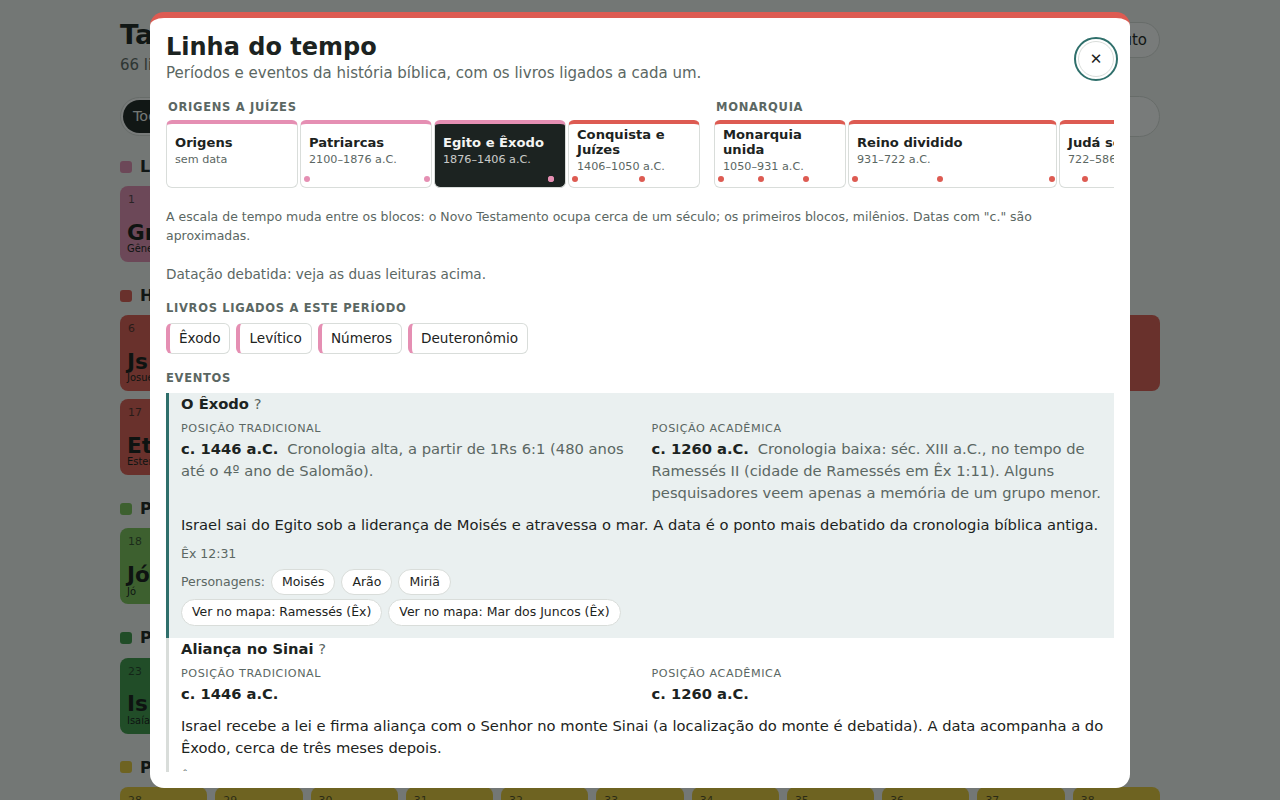
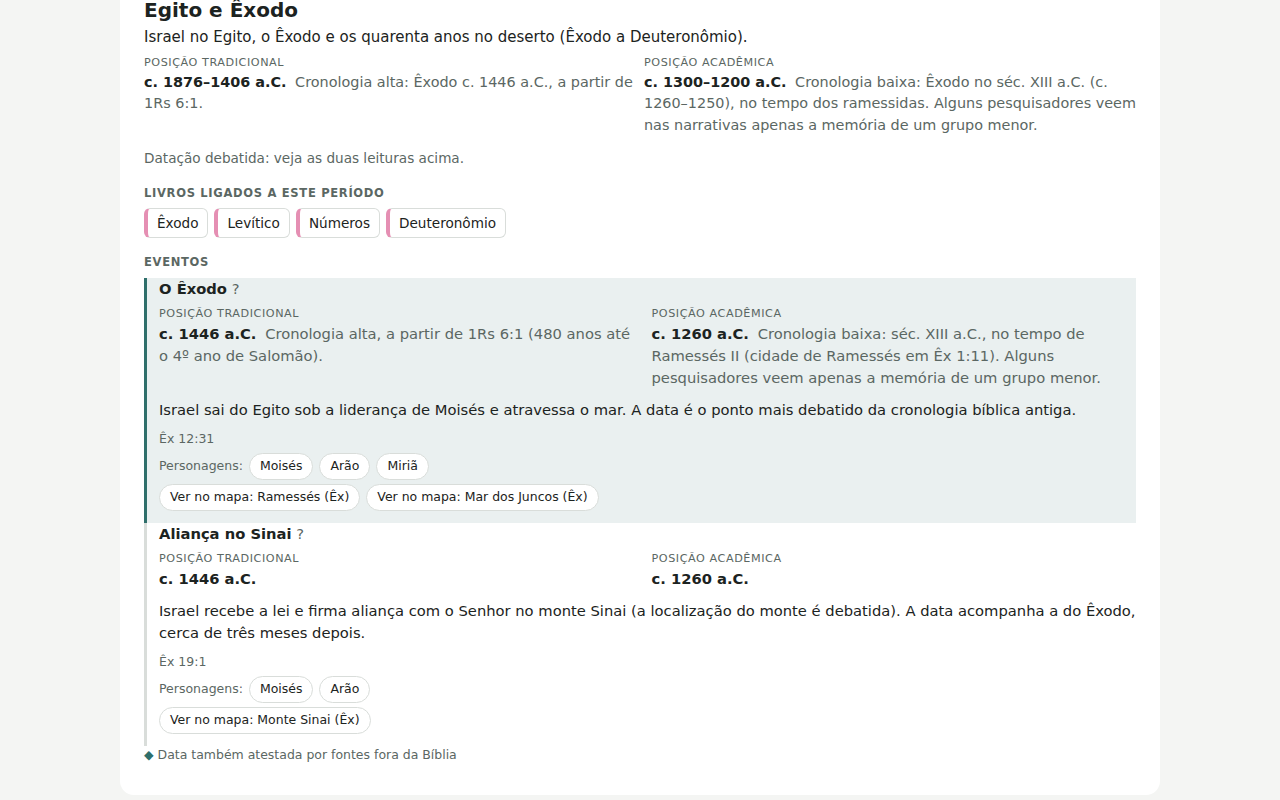
Docs e capturas para as páginas completas; documenta as rotas
Claude-Session: https://claude.ai/code/session_0164XaicYoLjxwADqucEnrbc

diff --git a/docs/formatos-de-dados.md b/docs/formatos-de-dados.md
@@ -28,7 +28,7 @@ Para adicionar uma versão: incluir o formato da fonte em `scripts/build-bible-d
 
 ## Mapa
 
-A aba **Mapa** do modal aparece nos livros cuja ficha (`src/data/info/<slug>.json`) tem a chave `map`. O desenho usa `d3-geo` sobre a costa em `src/data/land.json`, sem tiles externos. O visual segue a demo aprovada em `docs/map-demo/`.
+A aba **Mapa** da página do livro aparece nos livros cuja ficha (`src/data/info/<slug>.json`) tem a chave `map`. O desenho usa `d3-geo` sobre a costa em `src/data/land.json`, sem tiles externos. O visual segue a demo aprovada em `docs/map-demo/`.
 
 ```json
 "map": {
@@ -50,7 +50,7 @@ A aba **Mapa** do modal aparece nos livros cuja ficha (`src/data/info/<slug>.jso
 
 ## Linha do tempo
 
-O botão **Linha do tempo** abre um modal com duas camadas: (1) períodos e eventos da história bíblica e (2) os livros ligados a cada período. Dados em `src/data/timeline.json`; componente em `src/Timeline.jsx`.
+O botão **Linha do tempo** abre uma página com duas camadas: (1) períodos e eventos da história bíblica e (2) os livros ligados a cada período. Dados em `src/data/timeline.json`; componente em `src/Timeline.jsx`.
 
 - Anos são inteiros: negativo = a.C., positivo = d.C. (não existe o ano 0). `approx: true` mostra "c.".
 - `dates` é `{start, end?, approx?, note?}` ou, quando a datação é debatida, `{traditional: {...}, scholarly: {...}}` (as duas leituras aparecem lado a lado, como nas fichas).
@@ -61,7 +61,7 @@ O botão **Linha do tempo** abre um modal com duas camadas: (1) períodos e even
 
 ## Personagens
 
-O botão **Personagens** abre um modal com a lista (busca e filtro por livro) e, para cada pessoa, o resumo, os livros onde aparece (com o papel em cada um), os eventos da linha do tempo e os lugares do mapa. Dados em `src/data/people.json`; componente em `src/People.jsx`. Links diretos: `#person` e `#person/<id>`.
+O botão **Personagens** abre uma página com a lista (busca e filtro por livro) e, para cada pessoa, o resumo, os livros onde aparece (com o papel em cada um), os eventos da linha do tempo e os lugares do mapa. Dados em `src/data/people.json`; componente em `src/People.jsx`. Links diretos: `#person` e `#person/<id>`.
 
 ```json
 { "id": "davi", "name": { "pt": "Davi", "en": "David" }, "summary": { "pt": "...", "en": "..." },
@@ -82,3 +82,17 @@ O botão ⚙ abre as preferências de estudo, guardadas no navegador (`localStor
 ## Publicar no GitHub Pages
 
 Settings → Pages → Source: *GitHub Actions*. O workflow em `.github/workflows/deploy.yml` faz o build a cada push na `main`.
+
+## Links e navegação
+
+A navegação usa o hash da URL, sem biblioteca de rotas; o botão voltar do navegador funciona e todo endereço é compartilhável. Livros, linha do tempo e personagens são páginas inteiras (só as Configurações são um popup).
+
+| Endereço | Mostra |
+|---|---|
+| `#` | grade dos 66 livros |
+| `#joh`, `#joh/sheet`, `#joh/read` | livro e aba (`summary`, `sheet`, `map`, `read`) |
+| `#2ki/map/Laquis` | aba Mapa com o lugar selecionado (nome em PT) |
+| `#timeline`, `#timeline/exodo` | linha do tempo, com o evento em foco |
+| `#person`, `#person/davi` | lista de personagens ou a página de uma pessoa |
+
+Trocar de aba ou de lugar atualiza o endereço sem criar entrada no histórico; ir para outra página cria. Ao voltar para a grade, a rolagem é restaurada. O código está em `src/route.js`.

diff --git a/CLAUDE.md b/CLAUDE.md
@@ -21,10 +21,11 @@ Tabela interativa dos 66 livros da Bíblia (inspirada no "TaBíblia Periódica")
 - `src/data/info/<slug>.json`: ficha de cada livro (PT/EN), com a chave opcional `map` (lugares do mapa; formato no README).
 - `src/data/land.json`: costa em vetor (Natural Earth 50m, recortada). Não editar à mão.
 - `src/MapView.jsx`: aba Mapa (d3-geo, SVG em pixels reais, rótulos sem colisão, botão "Ampliar região"). Carregada sob demanda.
-- `src/Timeline.jsx`: modal da linha do tempo (períodos, eventos, livros por período; escala por bloco). Carregada sob demanda; link `#timeline`.
-- `src/People.jsx`: modal de personagens (lista com busca e filtro por livro; detalhe com livros, eventos e lugares). Carregada sob demanda; links `#person` e `#person/<id>`.
+- `src/route.js`: rotas por hash (`#joh/map/Laquis`, `#timeline/<evento>`, `#person/<id>`); `go` navega com histórico, `sync` só atualiza o endereço. Livro, linha do tempo e personagens são **páginas**, não popups.
+- `src/Timeline.jsx`: página da linha do tempo (períodos, eventos, livros por período; escala por bloco). Carregada sob demanda; link `#timeline`.
+- `src/People.jsx`: página de personagens (lista com busca e filtro por livro; detalhe com livros, eventos e lugares). Carregada sob demanda; links `#person` e `#person/<id>`.
 - `src/SettingsModal.jsx` e `src/settings.js`: modal de Configurações (⚙ no topo) e contexto das preferências de estudo. Hoje: mostrar/esconder a posição acadêmica (fichas e linha do tempo); o padrão é mostrar. Guardado no navegador.
-- `src/BookModal.jsx`: modal do livro (abas Resumo, Ficha, Mapa e Ler). `src/App.jsx`: grade, filtros, tema, idioma, link direto por hash (`#joh`).
+- `src/BookModal.jsx`: página do livro (nome histórico; abas Resumo, Ficha, Mapa e Ler). `src/App.jsx`: grade, filtros, tema, idioma, link direto por hash (`#joh`).
 
 ## Regras de conteúdo
 - Personagens: o resumo se limita ao que o texto bíblico diz, com referências; onde a identidade, a autoria ou a datação são debatidas, usar `note`. Pessoas distintas de mesmo nome têm ids distintos (ex.: `josue` e `josue-sacerdote`).
